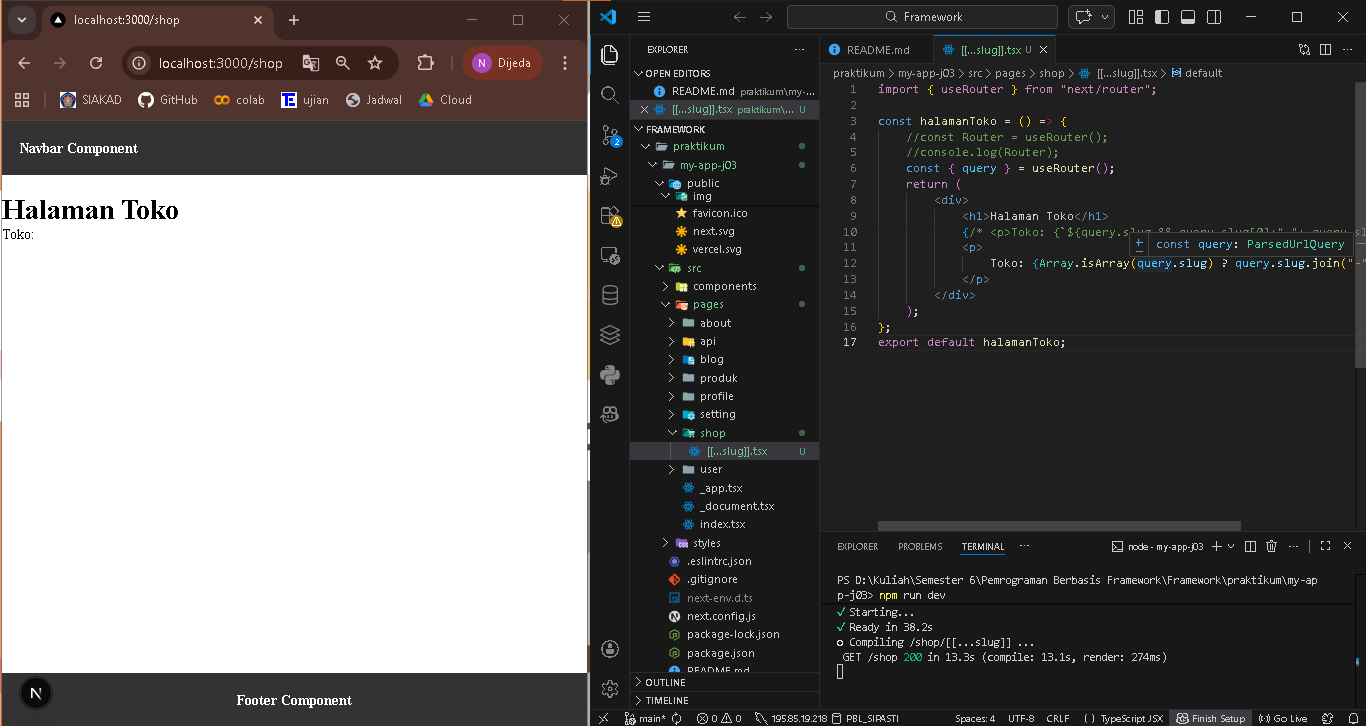
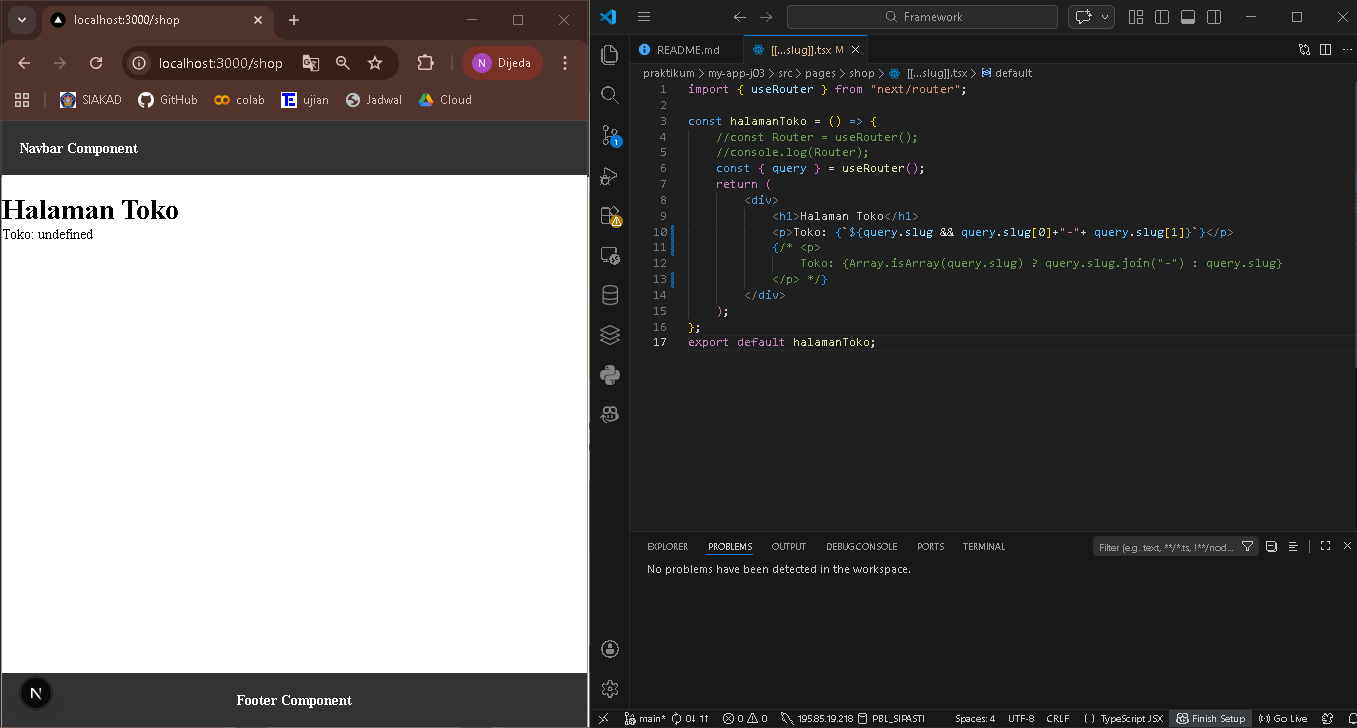
Jobsheet 3 - Langkah 4 (fix gambar)

diff --git a/praktikum/my-app-j03/src/pages/shop/[[...slug]].tsx b/praktikum/my-app-j03/src/pages/shop/[[...slug]].tsx
@@ -7,10 +7,10 @@ const halamanToko = () => {
     return (
         <div>
             <h1>Halaman Toko</h1>
-            {/* <p>Toko: {`${query.slug && query.slug[0]+"-"+ query.slug[1]}`}</p> */}
-            <p>
+            <p>Toko: {`${query.slug && query.slug[0]+"-"+ query.slug[1]}`}</p>
+            {/* <p>
                 Toko: {Array.isArray(query.slug) ? query.slug.join("-") : query.slug}
-            </p>
+            </p> */}
         </div>
     );
 };
